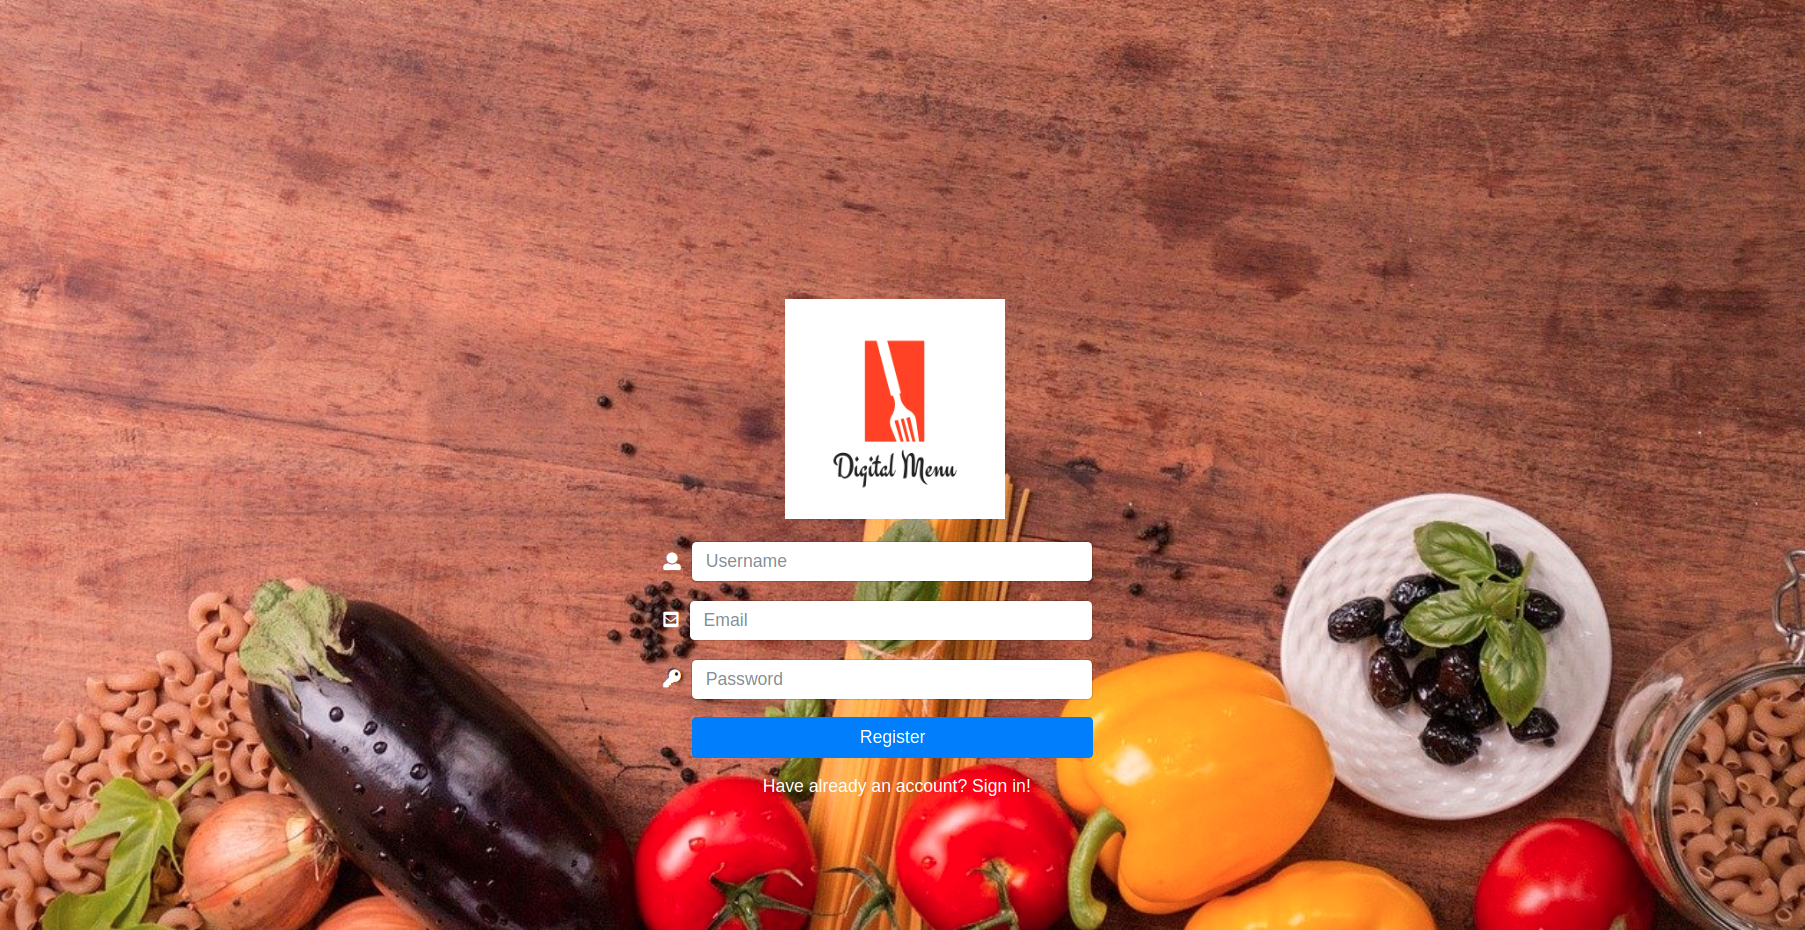
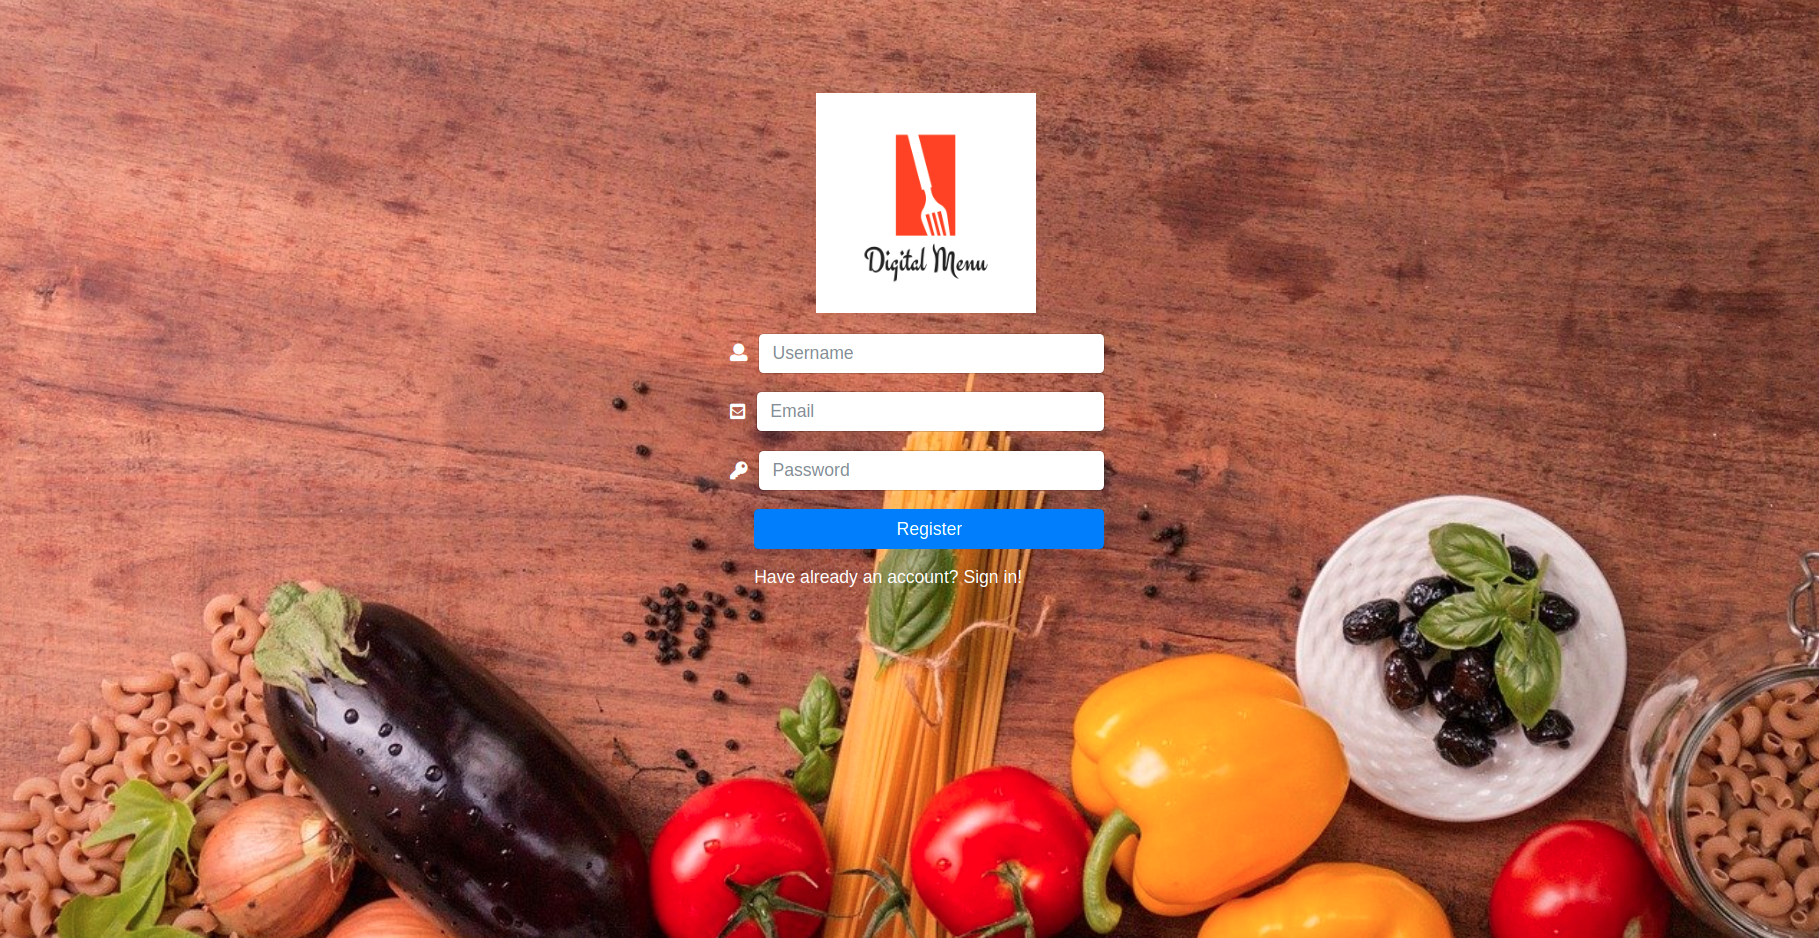
refactor: login page with register and login functionality, adjusted css"

diff --git a/client/src/app/login/login.component.html b/client/src/app/login/login.component.html
@@ -6,7 +6,68 @@
   <meta name="viewport" content="width=device-width, initial-scale=1.0">
   <link rel="stylesheet" href="//use.fontawesome.com/releases/v5.0.7/css/all.css">
 </head>
-  <div class="container">
+
+<div class="container">
+  <div class="row">
+    <div class="col col-lg-4">
+
+    </div>
+    <div class="col col-lg-4">
+
+    </div>
+    <div class="col col-lg-4">
+
+    </div>
+  </div>
+  <div class="row">
+    <div class="col col-lg-4">
+
+    </div>
+    <div class="col col-lg-4">
+      <div class="container-login">
+        <div class="login">
+          <div class="image-container">
+            <img class="logo" src="../../assets/images/login/logo.png" alt="no logo">
+          </div>
+          <div class="input-group mb-3" *ngIf="!login">
+            <span class="input-group-text"><i class="fas fa-user"></i></span>
+            <input type="text" class="form-control" placeholder="Username" aria-label="Username" aria-describedby="basic-addon1">
+          </div>
+          <div class="input-group mb-3">
+            <span class="input-group-text"><i class="fas fa-envelope-square"></i></span>
+            <input type="text" class="form-control" placeholder="Email" aria-label="Email" aria-describedby="basic-addon1">
+          </div>
+          <div class="input-group mb-3">
+            <span class="input-group-text"><i class="fas fa-key"></i></span>
+            <input type="text" class="form-control" placeholder="Password" aria-label="Username" aria-describedby="basic-addon1">
+          </div>
+          <div class="input-group mb-3">
+            <button type="button" class="btn btn-primary login-action">{{!login ? 'Register': 'Login'}}</button>
+          </div>
+          <div class="input-group mb-3">
+            <a href="/login" class="login-action login-action-link" (click)="signIn($event)">{{!login ? loginMessage : registerMessage }}</a>
+          </div>
+        </div>
+      </div>
+    </div>
+    <div class="col col-lg-4">
+
+    </div>
+  </div>
+  <div class="row">
+    <div class="col col-lg-4">
+
+    </div>
+    <div class="col col-lg-4">
+
+    </div>
+    <div class="col col-lg-4">
+
+    </div>
+  </div>
+</div>
+
+  <!-- <div class="container-login">
     <div class="login">
       <div class="image-container">
         <img class="logo" src="../../assets/images/login/logo.png" alt="no logo">
@@ -30,6 +91,6 @@
         <a href="" class="login-action login-action-link">Have already an account? Sign in!</a>
       </div>
     </div>
-  </div>
+  </div> -->
 </html>
 

diff --git a/client/src/app/login/login.component.ts b/client/src/app/login/login.component.ts
@@ -1,4 +1,5 @@
 import { Component, OnInit } from '@angular/core';
+import { Observable } from 'rxjs';
 
 @Component({
   selector: 'app-login',
@@ -7,9 +8,20 @@ import { Component, OnInit } from '@angular/core';
 })
 export class LoginComponent implements OnInit {
 
-  constructor() { }
+  login: boolean = false;
+  loginMessage : string = 'Have already an account? Sign in!';
+  registerMessage : string = 'Not yet registered? Welcome and enjoy!'
+
+  constructor() {
+  }
+
+  signIn(event: any) {
+    event.preventDefault();
+    this.login = !this.login ;
+  }
 
   ngOnInit(): void {
+
   }
 
 }

diff --git a/client/src/app/login/login.component.scss b/client/src/app/login/login.component.scss
@@ -5,12 +5,12 @@ html {
   overflow: hidden;
 }
 
-.container {
+.container-login{
   height: 100vw;
 }
 
 .image-container {
-  margin-left: 30%;
+  margin-left: 25%;
   margin-bottom: 5%;
   .logo {
     height: 200px;
@@ -21,9 +21,9 @@ html {
 
 .login {
   display: block;
-  height: 400px;
-  width: 400px;
-  margin-left: 30%;
+  height: 350px;
+  width: 350px;
+  // margin-left: 30%;
   padding-top: 25%;
 }
 
@@ -43,5 +43,5 @@ html {
 
 }
 .login-action-link {
-  margin-left: 25%;
+  // margin-left: 25%;
 }
